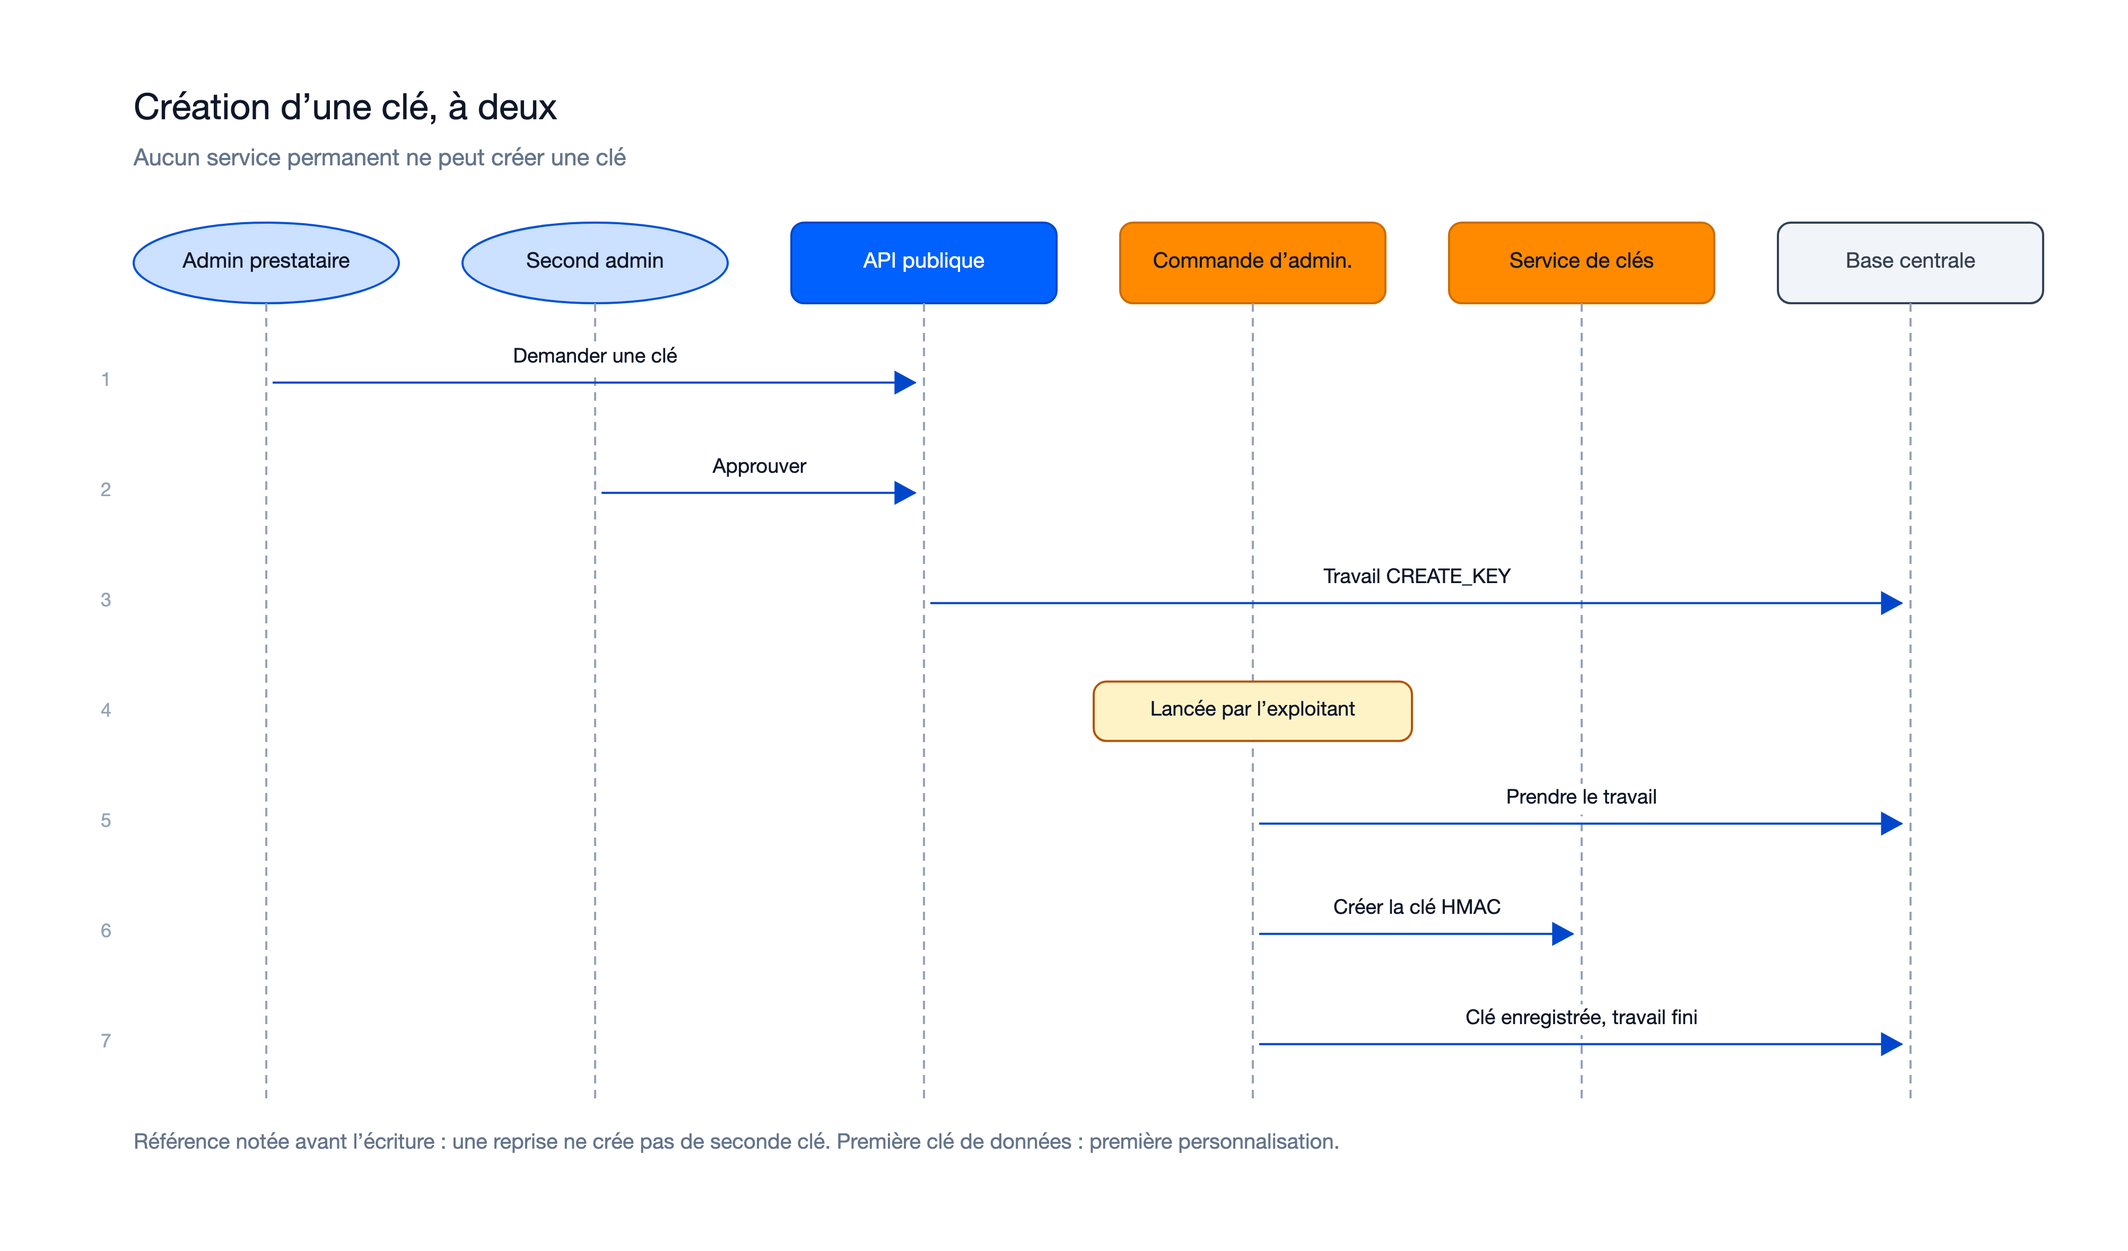
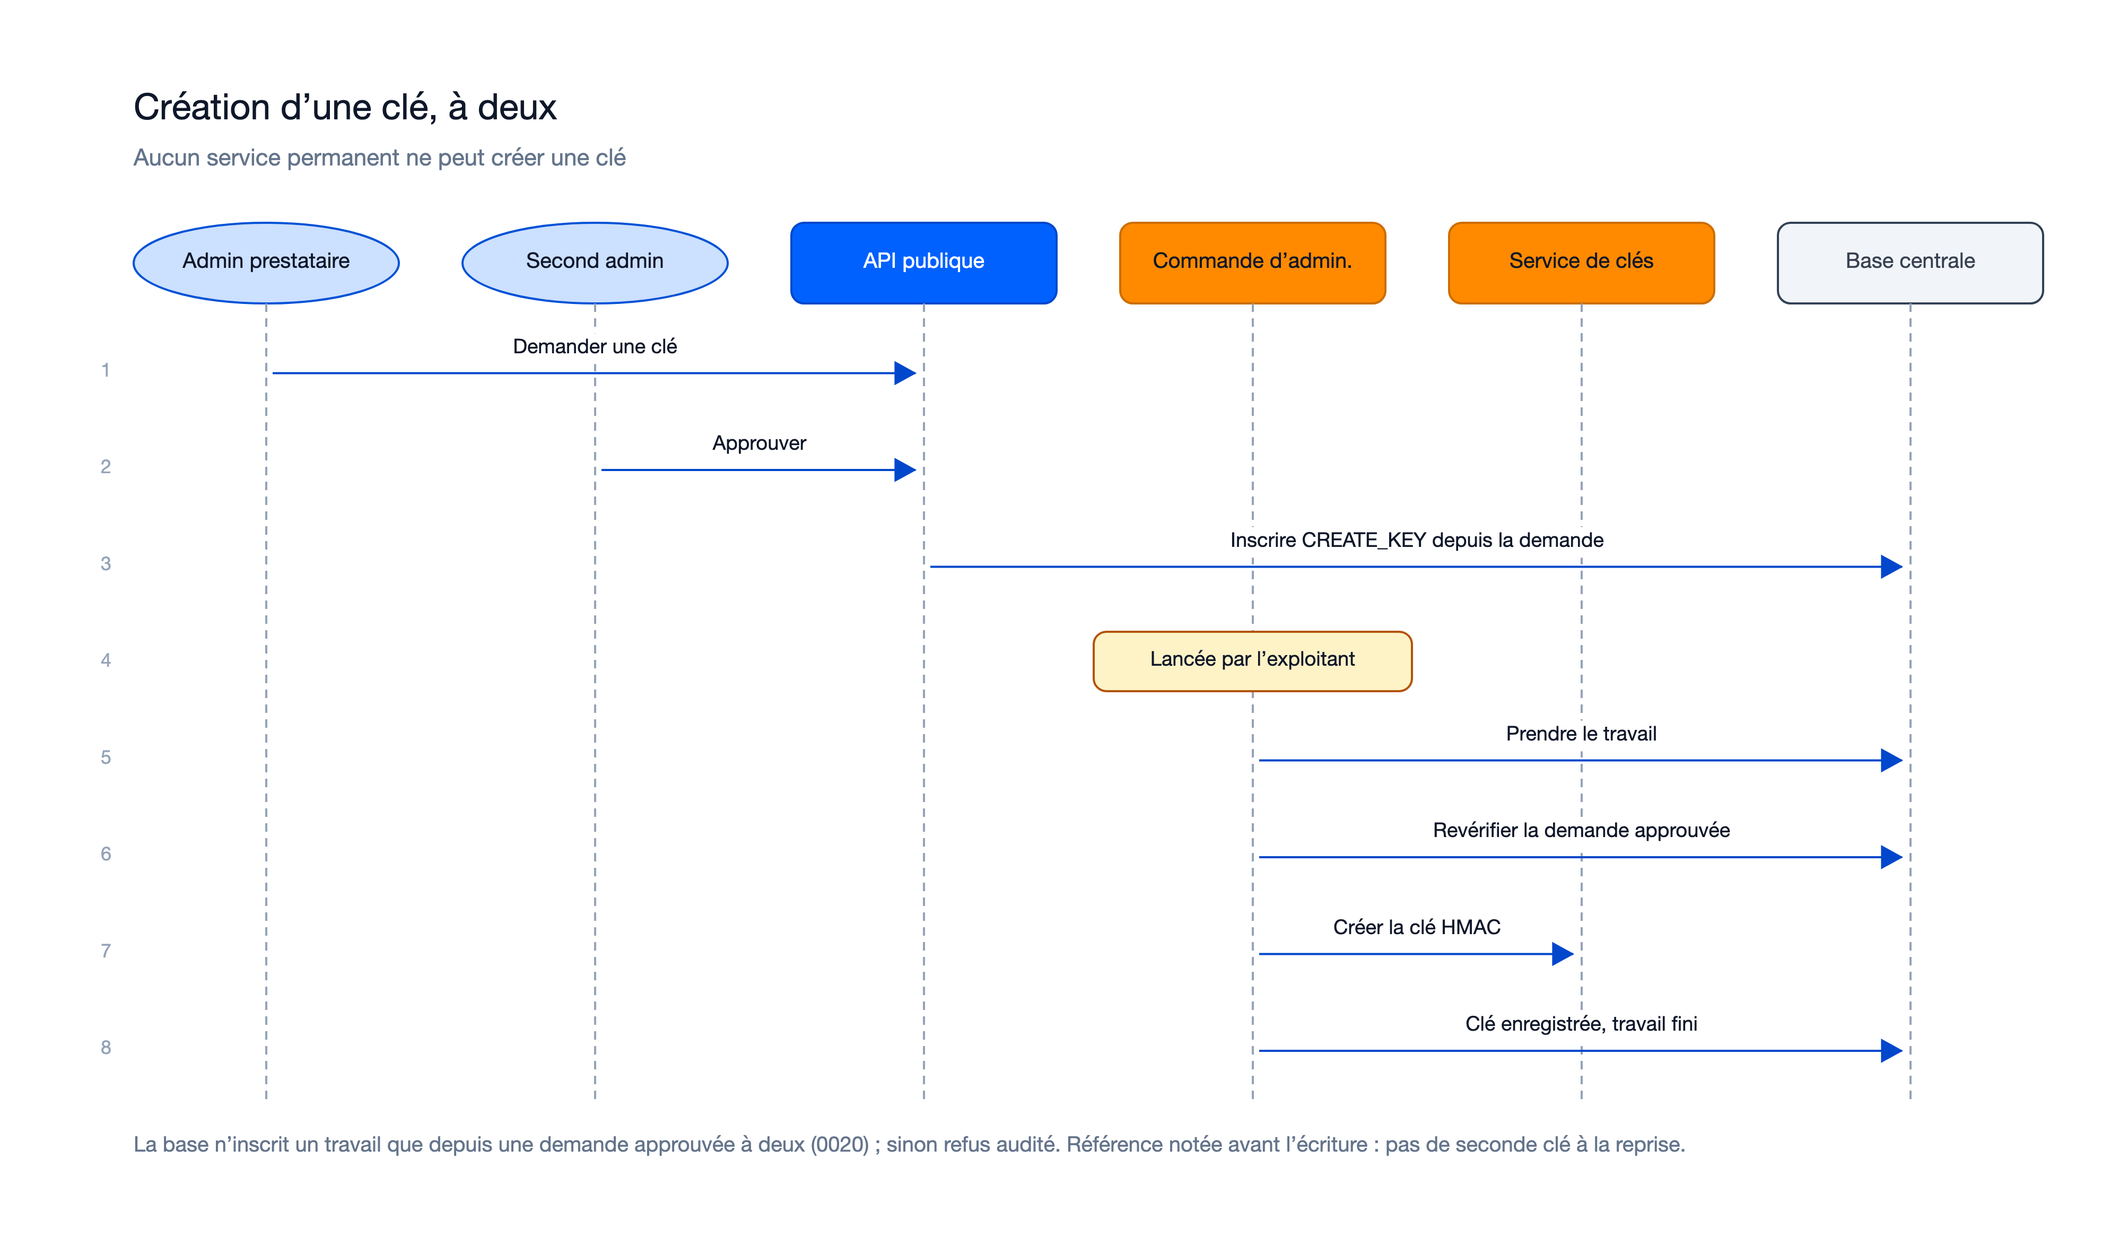
docs(bracelets-nfc-01M4TD3W): documents globaux recalés sur le correctif post-fusion n° 1
- 01, 04, 09 : migration 0020 (travaux de clé nés d'une demande approuvée à deux, refus audité
  TAG_KEY_JOB_REFUSED), NODE_ENV obligatoire, références exigées en production.
- Docs locaux (architecture-notes, sequence) ; diagramme « Création d'une clé, à deux » régénéré.
- Journal de 06-docs-status.md et docs-state.json.

diff --git a/kitty-specs/bracelets-nfc-01M4TD3W/docs/diagrams/generate.py b/kitty-specs/bracelets-nfc-01M4TD3W/docs/diagrams/generate.py
@@ -97,8 +97,8 @@ files.append(sequence('sequence-rattachement','Rattachement d’un bracelet appr
  note="Solde nul : rattachement direct. Bracelet jamais activé : activation par l’app si l’événement l’autorise."))
 files.append(sequence('sequence-creation-cle','Création d’une clé, à deux','Aucun service permanent ne peut créer une clé',
  [P('x','Admin prestataire','data'),P('y','Second admin','data'),P('a','API publique','primary'),P('e','Commande d’admin.','accent'),P('k','Service de clés','accent'),P('b','Base centrale')],
- [('x','a','Demander une clé'),('y','a','Approuver'),('a','b','Travail CREATE_KEY'),('e','e','Lancée par l’exploitant'),('e','b','Prendre le travail'),('e','k','Créer la clé HMAC'),('e','b','Clé enregistrée, travail fini')],
- note="Référence notée avant l’écriture : une reprise ne crée pas de seconde clé. Première clé de données : première personnalisation."))
+ [('x','a','Demander une clé'),('y','a','Approuver'),('a','b','Inscrire CREATE_KEY depuis la demande'),('e','e','Lancée par l’exploitant'),('e','b','Prendre le travail'),('e','b','Revérifier la demande approuvée'),('e','k','Créer la clé HMAC'),('e','b','Clé enregistrée, travail fini')],
+ note="La base n’inscrit un travail que depuis une demande approuvée à deux (0020) ; sinon refus audité. Référence notée avant l’écriture : pas de seconde clé à la reprise."))
 files.append(sequence('sequence-controle-quotidien','Contrôle quotidien des mots de passe','Un passage par prestataire et par 24 h, sans anomalie',
  [P('o','Contrôle quotidien','primary'),P('k','Service de clés','accent'),P('b','Base centrale')],
  [('o','b','Échantillon de bracelets'),('o','k','Déchiffrer la clé de données'),('o','k','Recalculer le mot de passe'),('o','o','Comparer, effacer'),('o','b','Compte rendu OK, MISMATCH, ERROR'),('o','b','Audit des écarts (identifiant)','bad')],

diff --git a/docs/06-docs-status.md b/docs/06-docs-status.md
@@ -103,6 +103,7 @@
 | 15/10/2026 | review (WP20 rouvert sur décisions du porteur puis relectures : cycles 3 à 8, approuvé au cycle 8 ; 20/20 approuvés) | `bracelets-nfc-01M4TD3W` | B-review (complément) | architecture-notes (migrations 0017-0019, décisions, dettes) ; 01, 04, 09 (migrations jusqu'à 0019) | Mis à jour — écarts plan/implémentation : migrations 0017 à 0019 en plus (sortie de liste noire liée à une demande approuvée, déclencheurs d'historique et personnalisation en `SECURITY DEFINER`) ; écritures directes retirées aux rôles applicatifs (historiques, règles de passage, `media_assignment`, `device_config_served`, `media` pour `cashless_perso`) ; `TRUST_PROXY_HOPS` (ADR-95) ; ADR-91 acceptée (mission 9 enchaîne), ADR-93 à ADR-97 ; OP-N52 et OP-N53 levés ; OP-N56 à OP-N60 ouverts (N57, N58 mission 7 ; N59 mission 5 ; N56, N60 mission 11 ; N57 à N60 bloquent la production). Diagrammes inchangés (pas de nouveau flux) |
 | 16/10/2026 | spec-kitty accept (local, `--lenient` pour la convention `src/`/`tests/`, matrice 46/46 dont NFR-008 avec réserve OP-N61) le 15/10/2026, puis spec-kitty merge (squash local `7b1b8c2`, sans push, branches et worktrees conservés) | `bracelets-nfc-01M4TD3W` | Vérification pré-conclusion | 01, 02, 04, 05, 07, 09 (statut « mergée ») ; docs locaux ; spec-index.json ; docs-state.json ; PROMPTS-A-ENVOYER.md (mission 4 cochée, missions de levée confirmées) ; POINTS_OUVERTS et ADR-99/ADR-101 (confirmés par le porteur) | Mis à jour — fusion : conflits d'union résolus à la main dans `audit.service.ts` et `media-public.module.ts` ; un fichier mal résolu par script corrigé (`media-public.module.ts` rétabli dans sa version approuvée) ; code fusionné identique à la tête approuvée de la lane t (`b658961`). Après fusion : lint, typecheck, check:generated, types du contrat, pgTAP 1380/1380, Jest 1246/1246, tag-format 38/38 ; reformatage Prettier (`2f9d0fd`) sans changement de comportement |
 | 16/10/2026 | correctif post-fusion n° 1 (`post-merge-fix-1.md` : SEC-1, RISK-3, RISK-4, DRIFT-2, NOTE-1), sur `feat/bracelets-nfc` | `bracelets-nfc-01M4TD3W` | Correctif post-fusion | DECISIONS_ADR (ADR-102 à ADR-104 ; ADR-83, ADR-87, ADR-99, ADR-101 complétés) ; POINTS_OUVERTS (OP-N47 : mission 10 proposée ; OP-N62 et OP-N63 nouveaux) ; PROMPTS-A-ENVOYER (missions 5, 7, 10, 12, 13) ; PRD (héritages : missions 5, 10, 12) ; `.github/CI.md` | Mis à jour — migration 0020 (travaux de clé nés d'une demande approuvée à deux, vérifiés par la base et revérifiés par les exécutants), `NODE_ENV` obligatoire, `TAG_WRAPPING_KEY_REF` et `CLAIM_CODE_DOMAIN` exigés en production. Documents globaux 01 à 07 non repris dans ce passage : à relire au prochain addendum (droits de la base sur `tag_key_job`, alerte `TAG_KEY_JOB_REFUSED`) |
+| 16/10/2026 | rattrapage des documents globaux après le correctif post-fusion n° 1 (`be8594e`, `38b3943`, `3209eb5`) et DRIFT-1 (`097f6dd`, décision n° 9 rétablie dans `research.md`) | `bracelets-nfc-01M4TD3W` | Correctif post-fusion (complément) | 01 (migrations jusqu'à 0020), 04 (travaux de clé nés d'une demande approuvée, refus audité `TAG_KEY_JOB_REFUSED` ; `NODE_ENV` obligatoire, `TAG_WRAPPING_KEY_REF` et `CLAIM_CODE_DOMAIN` exigés en production), 09 (0020, `tag_key_job`) ; docs locaux (architecture-notes, sequence) ; diagramme `/illustre` « Création d'une clé, à deux » régénéré (inscription depuis la demande, revérification par l'exécutant), rendu relu ; docs-state.json | Mis à jour — 02, 03, 05, 07, 08 relus : aucun changement requis (pas de nouvel acteur, de flux transverse, de route ni de dépendance) |
 Note : les diagrammes (02 à 05) sont rendus en **repli Mermaid**, faute d'outil : ni `excalidraw-diagram-skill`
 ni `/illustre` ne sont installés dans cette session (`.docmeta/diagram-style-routing.md`).
 

diff --git a/docs/04-architecture-diagram.md b/docs/04-architecture-diagram.md
@@ -117,8 +117,8 @@ arrêtée le 09/10/2026 (ADR-78 : l'existant prime). Redis, Fastify, Prisma et N
 | Cascade versionnée : catalogue des réglages en TypeScript, colonnes d'`event` + instantané dans chaque version ; port `ConfigResolver` implémenté en SQL | Bornes et messages centralisés ; `config_version_id` et `fee_rule_id` réels pour chaque écriture ; un réglage par rôle (ADR-81) ; frais du PSP par règle `EVENT` à bénéficiaire `PSP:<canal>` (ADR-82) | `configuration-parties-evenements-01M4GCJ9` (implémentation) |
 | Quatre processus pour un seul code, à droits séparés sur le service de clés ; rôles de base distincts (l'API publique ne lit plus les secrets chiffrés) ; commande d'administration séparée pour créer et désactiver une clé | Une faille de l'API publique n'atteint aucune clé de bracelet (§3.2, §13.2) ; deux barrières indépendantes | `bracelets-nfc-01M4TD3W` (implémentation) |
 | Mot de passe d'un bracelet jamais transmis en clair (enveloppe pour le terminal ou pour le poste) ; clé de données en mémoire 5 minutes au plus ; empreinte à clé des codes de rattachement | Règle du contrat étendue au poste ; exposition bornée ; un code court ne se retrouve pas par essais | `bracelets-nfc-01M4TD3W` (implémentation) |
-| Service de clés, identité du terminal et identité du festivalier derrière des ports, avec un faux pour les tests ; un faux fait refuser le démarrage en production | Avancer sans AWS ni enrôlement réel, sans qu'un raccourci atteigne la production | `bracelets-nfc-01M4TD3W` (implémentation) |
-| Travaux de clé en table (`tag_key_job`, aucun secret, contrainte en base) : une action approuvée dans l'API publique est exécutée par le processus qui a le droit | Pas d'appel entre processus ; reprise sans double effet (ADR-83) | `bracelets-nfc-01M4TD3W` (implémentation) |
+| Service de clés, identité du terminal et identité du festivalier derrière des ports, avec un faux pour les tests ; un faux fait refuser le démarrage en production. `NODE_ENV` obligatoire (`production`, `development` ou `test`, sinon aucun processus ne démarre) ; `TAG_WRAPPING_KEY_REF` et `CLAIM_CODE_DOMAIN` exigés en production (correctif post-fusion n° 1) | Avancer sans AWS ni enrôlement réel, sans qu'un raccourci atteigne la production | `bracelets-nfc-01M4TD3W` (implémentation) |
+| Travaux de clé en table (`tag_key_job`, aucun secret, contrainte en base) : une action approuvée dans l'API publique est exécutée par le processus qui a le droit. Depuis la migration 0020 (correctif post-fusion n° 1, ADR-102), un travail ne naît que d'une demande approuvée à deux, par deux fonctions `SECURITY DEFINER` (aucun `INSERT` direct pour l'API ni la personnalisation) ; chaque exécutant revérifie la demande avant d'appeler le service de clés, sinon refus audité `TAG_KEY_JOB_REFUSED` | Pas d'appel entre processus ; reprise sans double effet (ADR-83) | `bracelets-nfc-01M4TD3W` (implémentation) |
 | Aucun compte de caisse avant la mission des caisses : caution en espèces et espèces dues répondent `409` (ADR-89) ; guichet de retour sans enchaînement, `settle_balance` et `refund_deposit_by` refusés en `422` (ADR-91, proposée, à trancher) | Aucun argent liquide sans session de caisse ; enchaînement renvoyé à la mission 9 par le plan, alors que `openapi.yaml` le décrit | `bracelets-nfc-01M4TD3W` (implémentation) |
 | Contrôle quotidien des mots de passe : compte rendu et alerte d'audit, code de sortie 2 sur écart, 3 sur panne ; aucune sorte d'anomalie nouvelle (ADR-92) | Liste des anomalies fermée (§12.2) | `bracelets-nfc-01M4TD3W` (implémentation) |
 

diff --git a/docs/09-class-diagram.md b/docs/09-class-diagram.md
@@ -1,8 +1,8 @@
 # Diagramme de classes — modèle du domaine
 
 > Modèle des entités métier tel qu'il est **réellement** dans le schéma SQL (source normative, SPECIFICATION §0.3) :
-> `packages/ledger-sql/schema_grand_livre_cashless.sql` et les migrations 0002 à 0019 (missions 1 à 4, état du
-> 15/10/2026 ; mission 4 mergée le 16/10/2026 dans `feat/bracelets-nfc`). Seuls les attributs utiles à la compréhension sont montrés ; les
+> `packages/ledger-sql/schema_grand_livre_cashless.sql` et les migrations 0002 à 0020 (missions 1 à 4, état du
+> 16/10/2026, correctif post-fusion n° 1 compris ; mission 4 mergée le 16/10/2026 dans `feat/bracelets-nfc`). Seuls les attributs utiles à la compréhension sont montrés ; les
 > colonnes techniques (horodatages de création, empreintes de chaîne, compteurs internes) sont omises.
 >
 > Conventions : chaque table porte `operator_id` (cloisonnement par prestataire, RLS) — non répété sur chaque classe.
@@ -388,7 +388,7 @@ migration qui l'a créée. Les descriptions reprennent les commentaires du sché
 | `media_tap` | Lecture d'un bracelet par un terminal : compteur de la puce (deux lectures au même compteur = deux puces), consommée par une seule écriture. | réf. |
 | `tag_key` | Clé maître de dérivation des mots de passe (HMAC dans le KMS, jamais extraite), une par prestataire et par index. | réf. |
 | `tag_data_key` | Clé de données qui chiffre les mots de passe stockés ; stockée chiffrée par une autre clé du KMS ; versionnée (active, déchiffrement seul, retirée). | réf. |
-| `tag_key_job` | Travail de clé inscrit par une approbation (création, rotation, retrait) et exécuté par le processus qui a le droit : commande d'administration (création, désactivation dans le KMS), personnalisation (nouvelle clé de données, retrait), clés de bracelet (rechiffrement). Aucun secret (contrainte). | 0012 (+0014) |
+| `tag_key_job` | Travail de clé inscrit par une approbation (création, rotation, retrait) et exécuté par le processus qui a le droit : commande d'administration (création, désactivation dans le KMS), personnalisation (nouvelle clé de données, retrait), clés de bracelet (rechiffrement). Aucun secret (contrainte). Ne naît que d'une demande approuvée à deux (travail racine) ou d'un travail parent en cours (rechiffrement, désactivation), un seul par demande ou par parent. | 0012 (+0014, +0020) |
 | `tag_key_check_run` | Compte rendu du contrôle quotidien des mots de passe stockés. | 0012 |
 | `claim_code` | Code imprimé d'un bracelet (empreinte seulement) : tiré à la commande du lot, associé à une puce, invalidé à la clôture s'il ne l'a jamais été. | 0010 |
 | `media_claim` | Demande de rattachement d'un bracelet approvisionné, à confirmer au guichet : 24 h, 5 essais, lecture consommée. | 0010 (+0016) |

diff --git a/kitty-specs/bracelets-nfc-01M4TD3W/docs/architecture-notes.md b/kitty-specs/bracelets-nfc-01M4TD3W/docs/architecture-notes.md
@@ -30,11 +30,16 @@
   la confirmation d'un rattachement) ; puis, après les relectures de WP20 : `0017` (sortie de liste noire liée à une demande
   `REINSTATE_MEDIA` approuvée de l'épisode en cours, ADR-94), `0018` (déclencheurs d'historique en `SECURITY DEFINER`),
   `0019` (`register_personalized_media` et `associate_claim_code` en `SECURITY DEFINER`, contrôles de prestataire refaits
-  sans RLS, `search_path = public, pg_temp`). `post-roles.sql` : quatre rôles de base de plus, droits colonne par colonne, et
+  sans RLS, `search_path = public, pg_temp`) ; puis, au correctif post-fusion n° 1 (constat SEC-1) : `0020` (un travail de clé ne
+  naît que d'une demande approuvée à deux : `enqueue_tag_key_job`, `enqueue_tag_key_child_job`, `tag_key_job_refusal`
+  revérifiée par les trois exécutants, refus audité `TAG_KEY_JOB_REFUSED` ; `retire_dedicated_key` retirée à `PUBLIC`,
+  ADR-102). `post-roles.sql` : quatre rôles de base de plus, droits colonne par colonne, et
   retrait à `cashless_app` de la lecture des chiffrés ; puis retrait des écritures directes sur les historiques, les tables
   de règles de passage, `media_assignment`, `device_config_served`, et de tout `INSERT`/`UPDATE` de `cashless_perso` sur
   `media` (la personnalisation n'écrit plus que par fonctions). `migrate.ts` applique `roles.sql` et `post-roles.sql` dans
-  une seule transaction. Variable `TRUST_PROXY_HOPS` obligatoire en production (ADR-95).
+  une seule transaction. Variable `TRUST_PROXY_HOPS` obligatoire en production (ADR-95). Correctif post-fusion n° 1 : `INSERT` sur `tag_key_job` retiré à
+  `cashless_app` et `cashless_perso` ; `NODE_ENV` obligatoire (`production`, `development`, `test`) ; `TAG_WRAPPING_KEY_REF`
+  et `CLAIM_CODE_DOMAIN` exigés en production.
 - Contrat : **27 opérations ajoutées sur 24 chemins** (clés et travaux de clé, lots et codes, bracelets au
   back-office, liste noire, perte, poste de personnalisation, remise en stock) ; 12 opérations existantes reçoivent
   `x-process` ; `lookupBalanceByClaimCode` réduite (décision n° 11). Types TypeScript et Dart régénérés.

diff --git a/docs/01-product-overview.md b/docs/01-product-overview.md
@@ -57,7 +57,7 @@ fil du découpage (`PROMPTS-A-ENVOYER.md`).
   avec détection de copie, lots, cycle de vie, code de rattachement imprimé, caution (§7).
 - Statut : ✅ mergée le 16/10/2026 dans `feat/bracelets-nfc` (20/20 WP relus, WP20 au cycle 9 ; acceptée le 15/10/2026, matrice 46/46 avec réserve OP-N61).
   Livré : bibliothèque de format en TypeScript et en Dart (mêmes vecteurs du kit) ; quatre processus à droits séparés
-  sur les clés et une commande d'administration ; rôles de base distincts ; migrations `0010`-`0019` ; 27 opérations
+  sur les clés et une commande d'administration ; rôles de base distincts ; migrations `0010`-`0020` (0020 au correctif post-fusion n° 1) ; 27 opérations
   d'API ajoutées (clés à deux, lots et codes imprimés, personnalisation, mot de passe pour le terminal, lecture,
   activation, caution, restitution, remplacement, espèces dues, remise en stock, perte, liste noire, rattachement par
   code, consultation anonyme) ; contrôle quotidien des mots de passe. Limites : service de clés, identité du terminal

diff --git a/kitty-specs/bracelets-nfc-01M4TD3W/docs/sequence.md b/kitty-specs/bracelets-nfc-01M4TD3W/docs/sequence.md
@@ -42,7 +42,10 @@ consommée par la demande confirmée (`consume_tap_for_claim`, migration 0016).
 Sources : [`sequence-creation-cle.excalidraw`](diagrams/sequence-creation-cle.excalidraw), [`sequence-creation-cle.svg`](diagrams/sequence-creation-cle.svg).
 
 Recalé : l'appel au service de clés par la commande d'administration est montré ; sa référence est notée dans le
-travail avant l'écriture de la clé, pour qu'une reprise n'en crée pas une seconde.
+travail avant l'écriture de la clé, pour qu'une reprise n'en crée pas une seconde. Recalé au correctif post-fusion n° 1 :
+l'API inscrit le travail par une fonction de la base qui le dérive de la demande approuvée à deux (migration 0020), et la
+commande d'administration revérifie la demande avant d'appeler le service de clés ; sinon le travail passe en échec avec
+une alerte d'audit `TAG_KEY_JOB_REFUSED`.
 
 ### Contrôle quotidien des mots de passe (ajouté au recalage)
 
